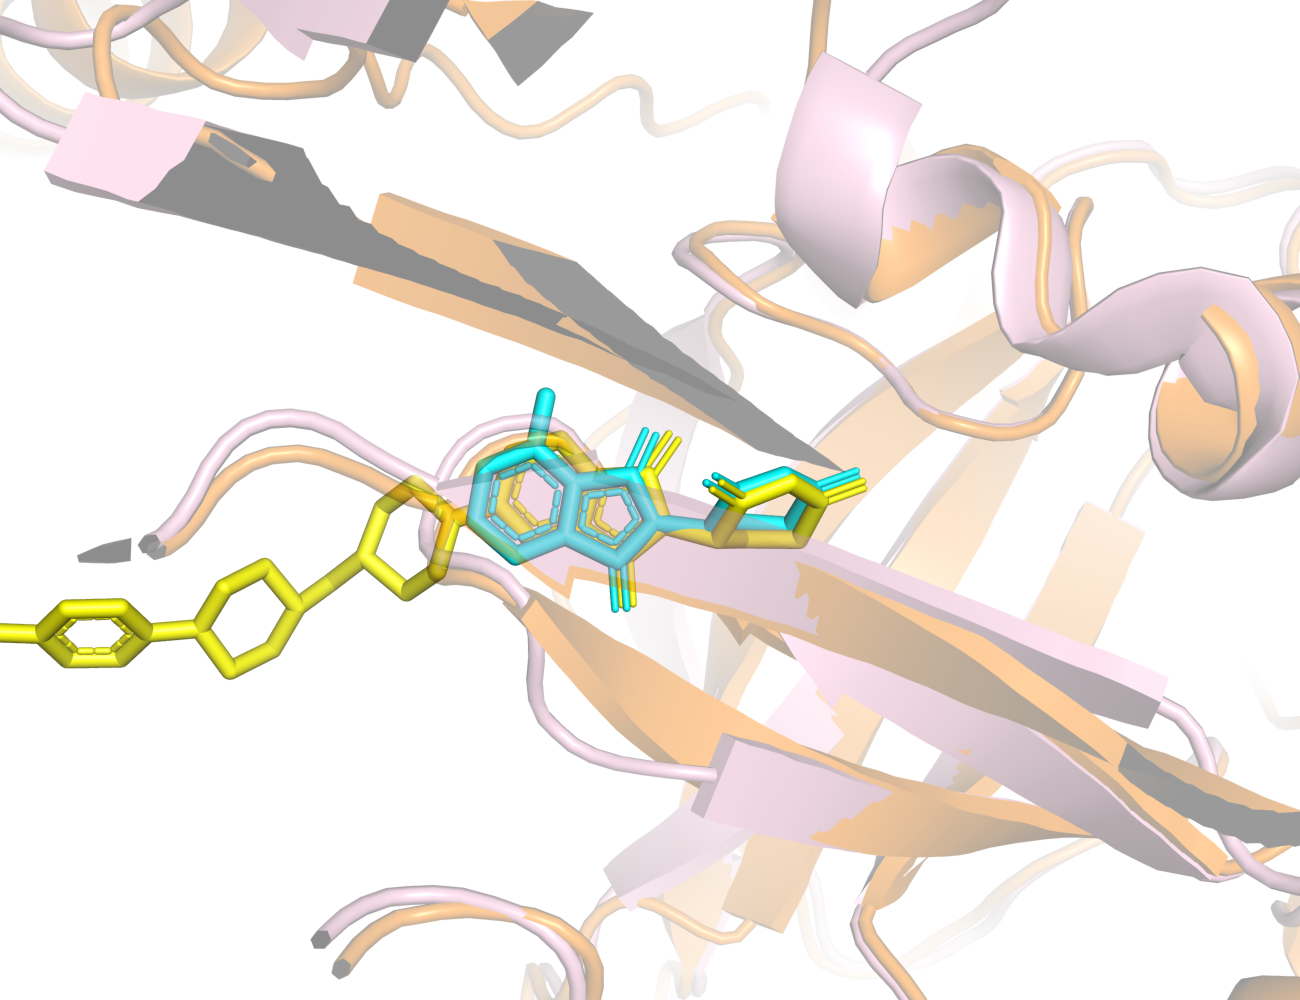
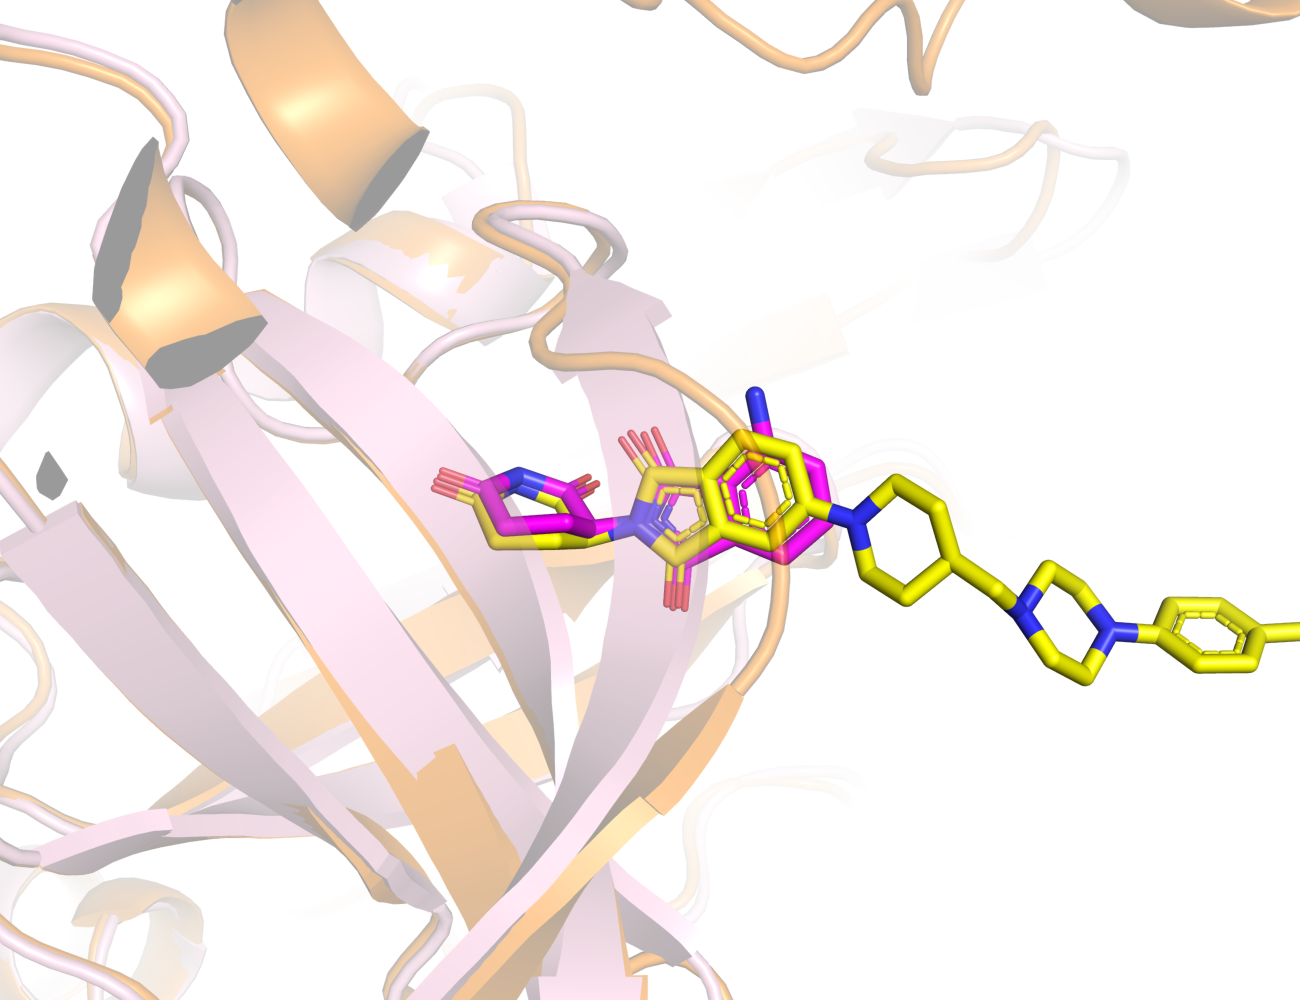
align_CRBN_pocket.png: pomalidomide 색 cyan→magenta (AR 포켓 cyan과 구분)

diff --git a/scripts/align_b3_render.py b/scripts/align_b3_render.py
@@ -32,7 +32,7 @@ cmd.ray(1300,1000); cmd.png(f"/home/kimjisan95/ar_protac_project/outputs/align_A
 cmd.hide("everything")
 cmd.show("cartoon","crbn_chain"); cmd.color("lightpink","crbn_chain"); cmd.set("cartoon_transparency",0.6,"CRBN_exp")
 cmd.show("cartoon","B3 and chain B"); cmd.color("orange","B3 and chain B"); cmd.set("cartoon_transparency",0.6,"B3")
-cmd.show("sticks", ligsel("CRBN_exp")); cmd.color("cyan", ligsel("CRBN_exp"))
+cmd.show("sticks", ligsel("CRBN_exp")); cmd.color("magenta", ligsel("CRBN_exp"))
 cmd.show("sticks","B3 and chain C"); cmd.color("yellow","B3 and chain C")
 cmd.orient(ligsel("CRBN_exp"))
 cmd.zoom(ligsel("CRBN_exp"), 8)
